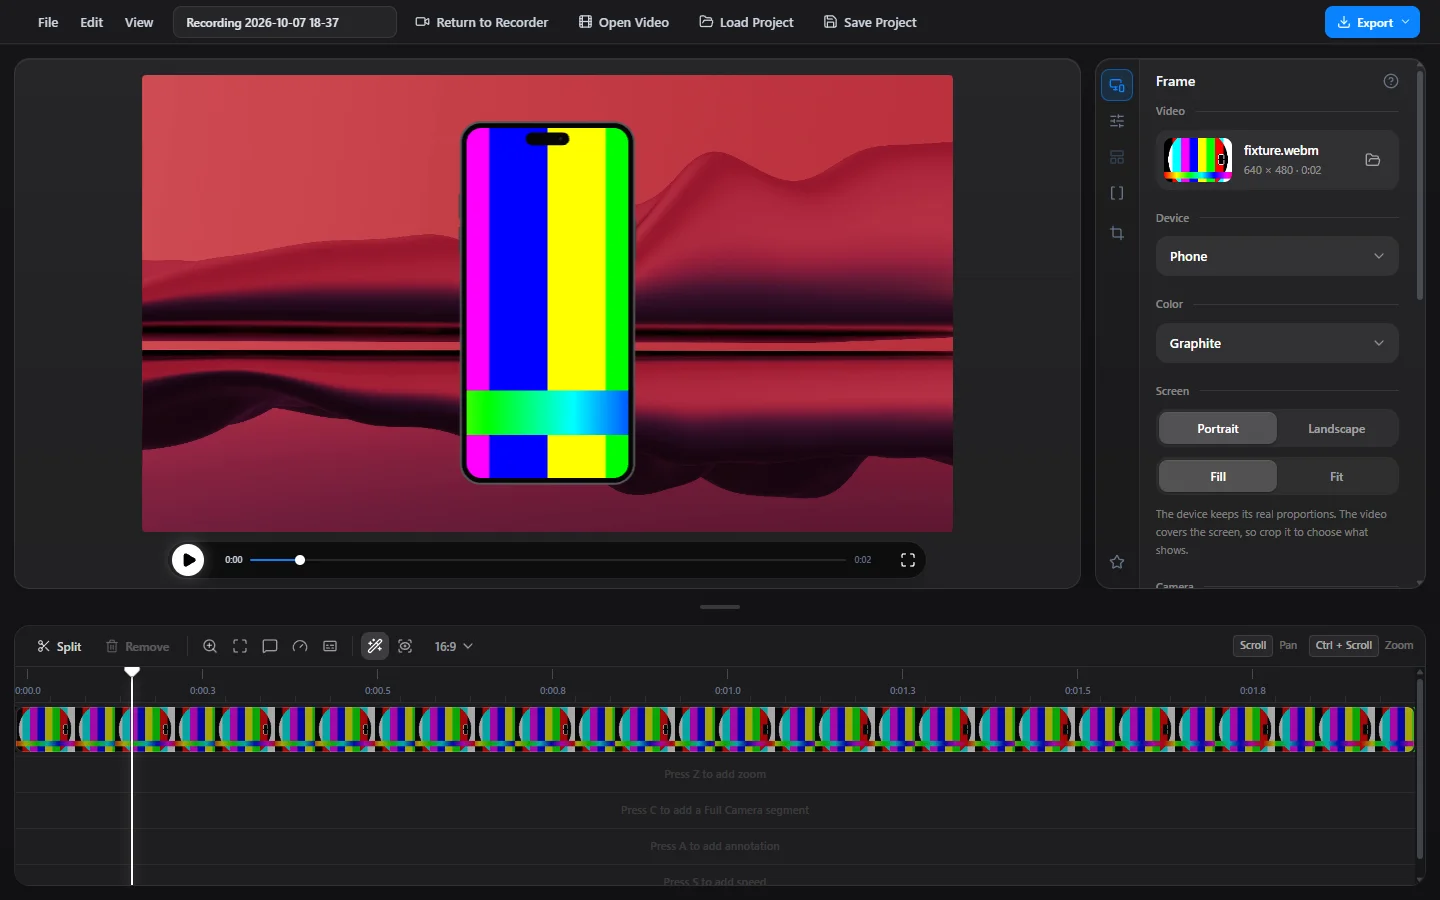
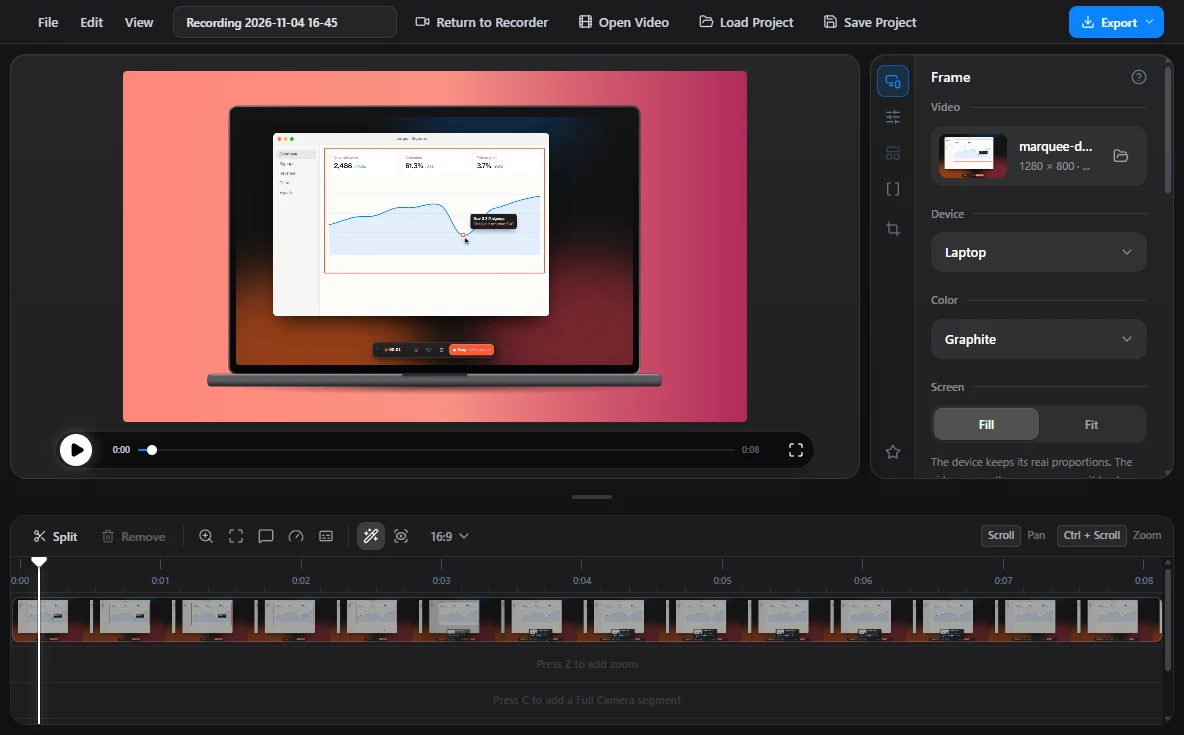
feat: real Studio screenshots and absolute social card URLs on the landing
The Studio cards now show the landing demo itself, opened in a hidden Studio
inside a graphite laptop on a gradient, and a timeline with a piece cut out,
instead of the colour bar test video. og:image, og:url and the canonical link
use the production domain, which link previews need.

diff --git a/site/index.html b/site/index.html
@@ -10,10 +10,13 @@
 	<link rel="icon" href="/favicon-32.png" sizes="32x32" type="image/png">
 	<link rel="apple-touch-icon" href="/apple-touch-icon.png">
 	<link rel="preload" href="/fonts/Geist-Variable.woff2" as="font" type="font/woff2" crossorigin>
+	<link rel="canonical" href="https://marquee-five-sigma.vercel.app/">
 	<meta property="og:type" content="website">
+	<meta property="og:url" content="https://marquee-five-sigma.vercel.app/">
 	<meta property="og:title" content="Marquee: draw a box, hit record, send the clip">
 	<meta property="og:description" content="A free, open source screen recorder for quick clips and polished demos. Windows, macOS and Linux.">
-	<meta property="og:image" content="/og.png">
+	<meta property="og:image" content="https://marquee-five-sigma.vercel.app/og.png">
+	<meta property="og:image:alt" content="MARQUEE spelled in theatre bulbs, above the line: Draw a box. Hit record. Send the clip.">
 	<meta property="og:image:width" content="1200">
 	<meta property="og:image:height" content="630">
 	<meta name="twitter:card" content="summary_large_image">
@@ -229,17 +232,17 @@
 						<p class="body-6">Phone, tablet, laptop or browser window, in graphite, silver, black or white. A device never stretches to fit the video: you scale it, turn it, and choose fill or fit.</p>
 					</div>
 					<figure class="shot">
-						<img src="/assets/studio-frame.webp" width="1440" height="900" loading="lazy" decoding="async" alt="Studio with the Frame tab open: a recording inside a phone mockup on a red background, with device, color and screen settings on the right.">
+						<img src="/assets/studio-frame.webp" width="1184" height="735" loading="lazy" decoding="async" alt="Studio with the Frame tab open: a Marquee recording inside a graphite laptop on a coral gradient, with device and color settings on the right and the clip on the timeline below.">
 					</figure>
 				</article>
 
 				<article class="card reveal">
 					<figure class="shot shot-crop">
-						<img src="/assets/studio-timeline.webp" width="1400" height="260" loading="lazy" decoding="async" alt="The timeline: the video as one clip split into pieces, with the middle piece removed and shown hatched.">
+						<img src="/assets/studio-timeline.webp" width="720" height="204" loading="lazy" decoding="async" alt="The timeline: the clip with a piece cut out of the middle, the two halves joined and a scissors mark where the cut was.">
 					</figure>
 					<div class="card-text">
 						<h3 class="heading-6">Cut it like an editor</h3>
-						<p class="body-6">Split with <kbd>T</kbd>, remove with <kbd>Delete</kbd>, and the gap closes. A removed piece stays on the track, so Restore brings it back.</p>
+						<p class="body-6">Split with <kbd>T</kbd> and remove with <kbd>Delete</kbd>, as in any editor. The cut stays marked on the track, and one click puts the piece back.</p>
 					</div>
 				</article>
 
@@ -387,7 +390,7 @@
 						<li><a href="https://github.com/Likemiens/openscreen">Source code</a></li>
 						<li><a href="https://github.com/Likemiens/openscreen/issues">Issues</a></li>
 						<li><a href="https://github.com/Likemiens/openscreen/blob/creator-edition/CONTRIBUTING.md">Contributing</a></li>
-						<li><a href="/brand/">Brand assets</a></li>
+						<li><a href="/brand">Brand assets</a></li>
 					</ul>
 				</div>
 				<div>

diff --git a/site/brand/index.html b/site/brand/index.html
@@ -10,7 +10,7 @@
 	<link rel="icon" href="/favicon-32.png" sizes="32x32" type="image/png">
 	<link rel="apple-touch-icon" href="/apple-touch-icon.png">
 	<meta property="og:title" content="Marquee brand assets">
-	<meta property="og:image" content="/og.png">
+	<meta property="og:image" content="https://marquee-five-sigma.vercel.app/og.png">
 	<link rel="stylesheet" href="/styles.css">
 	<script src="/main.js" defer></script>
 </head>
